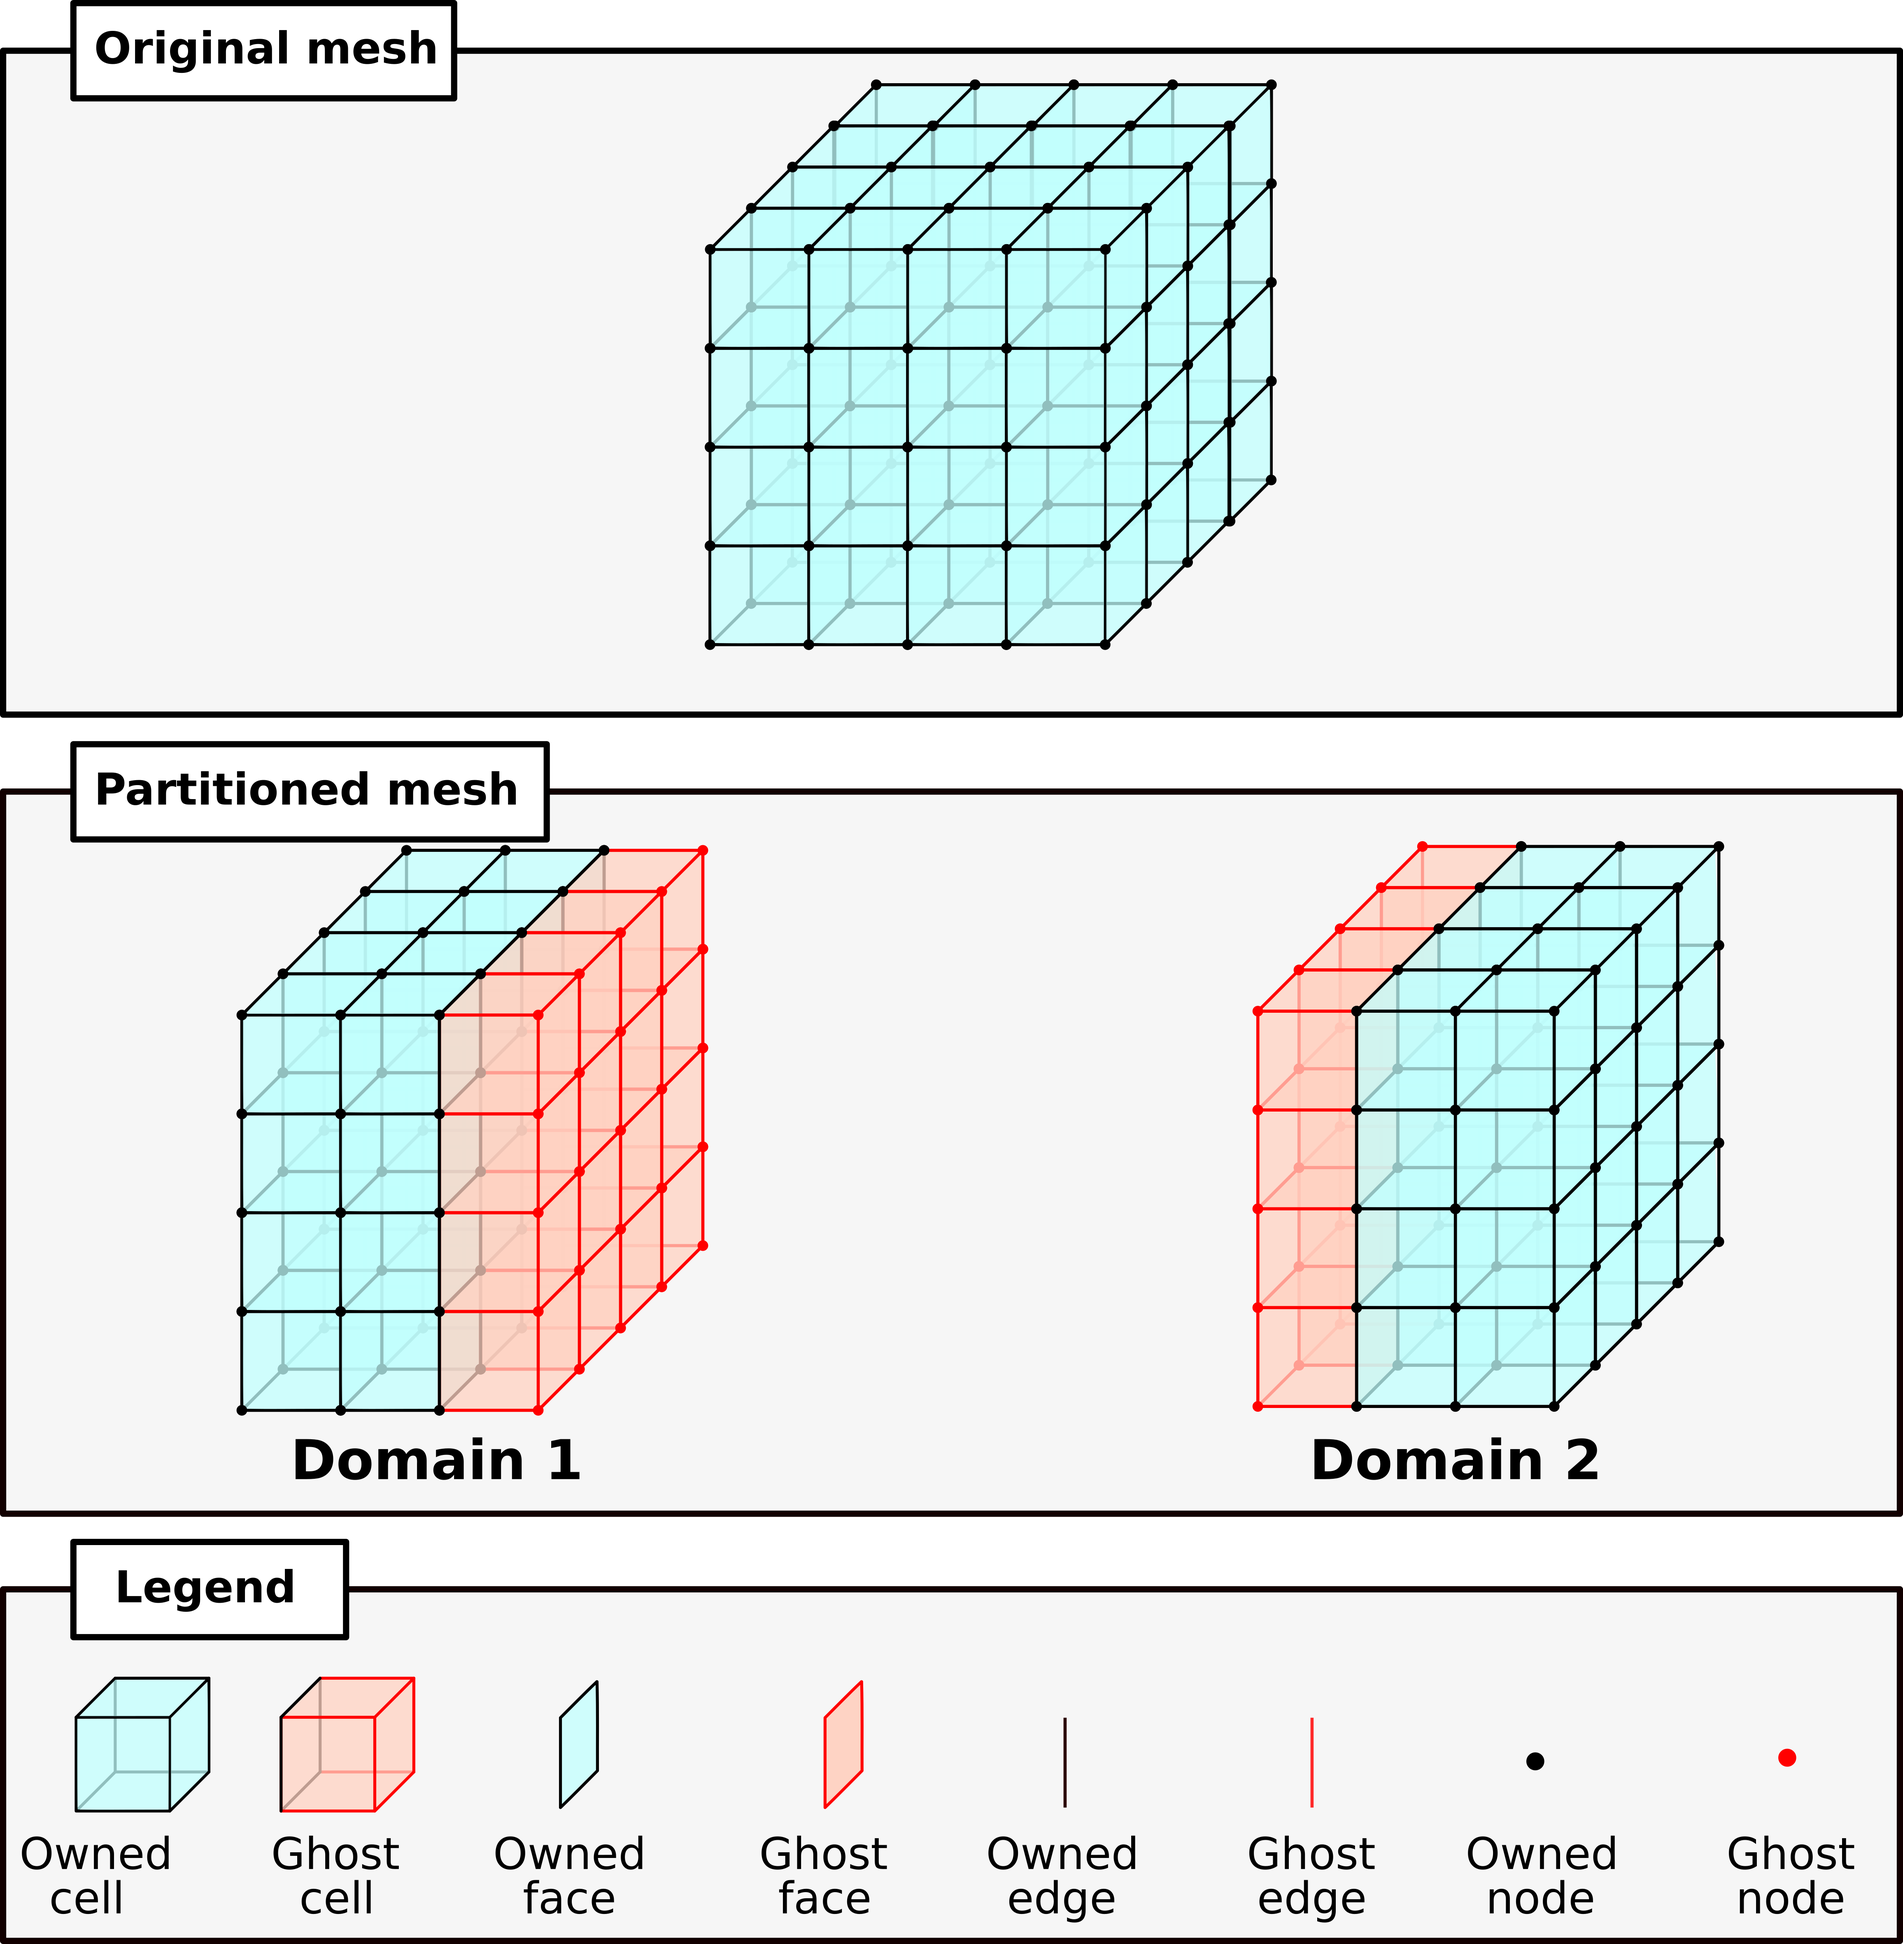
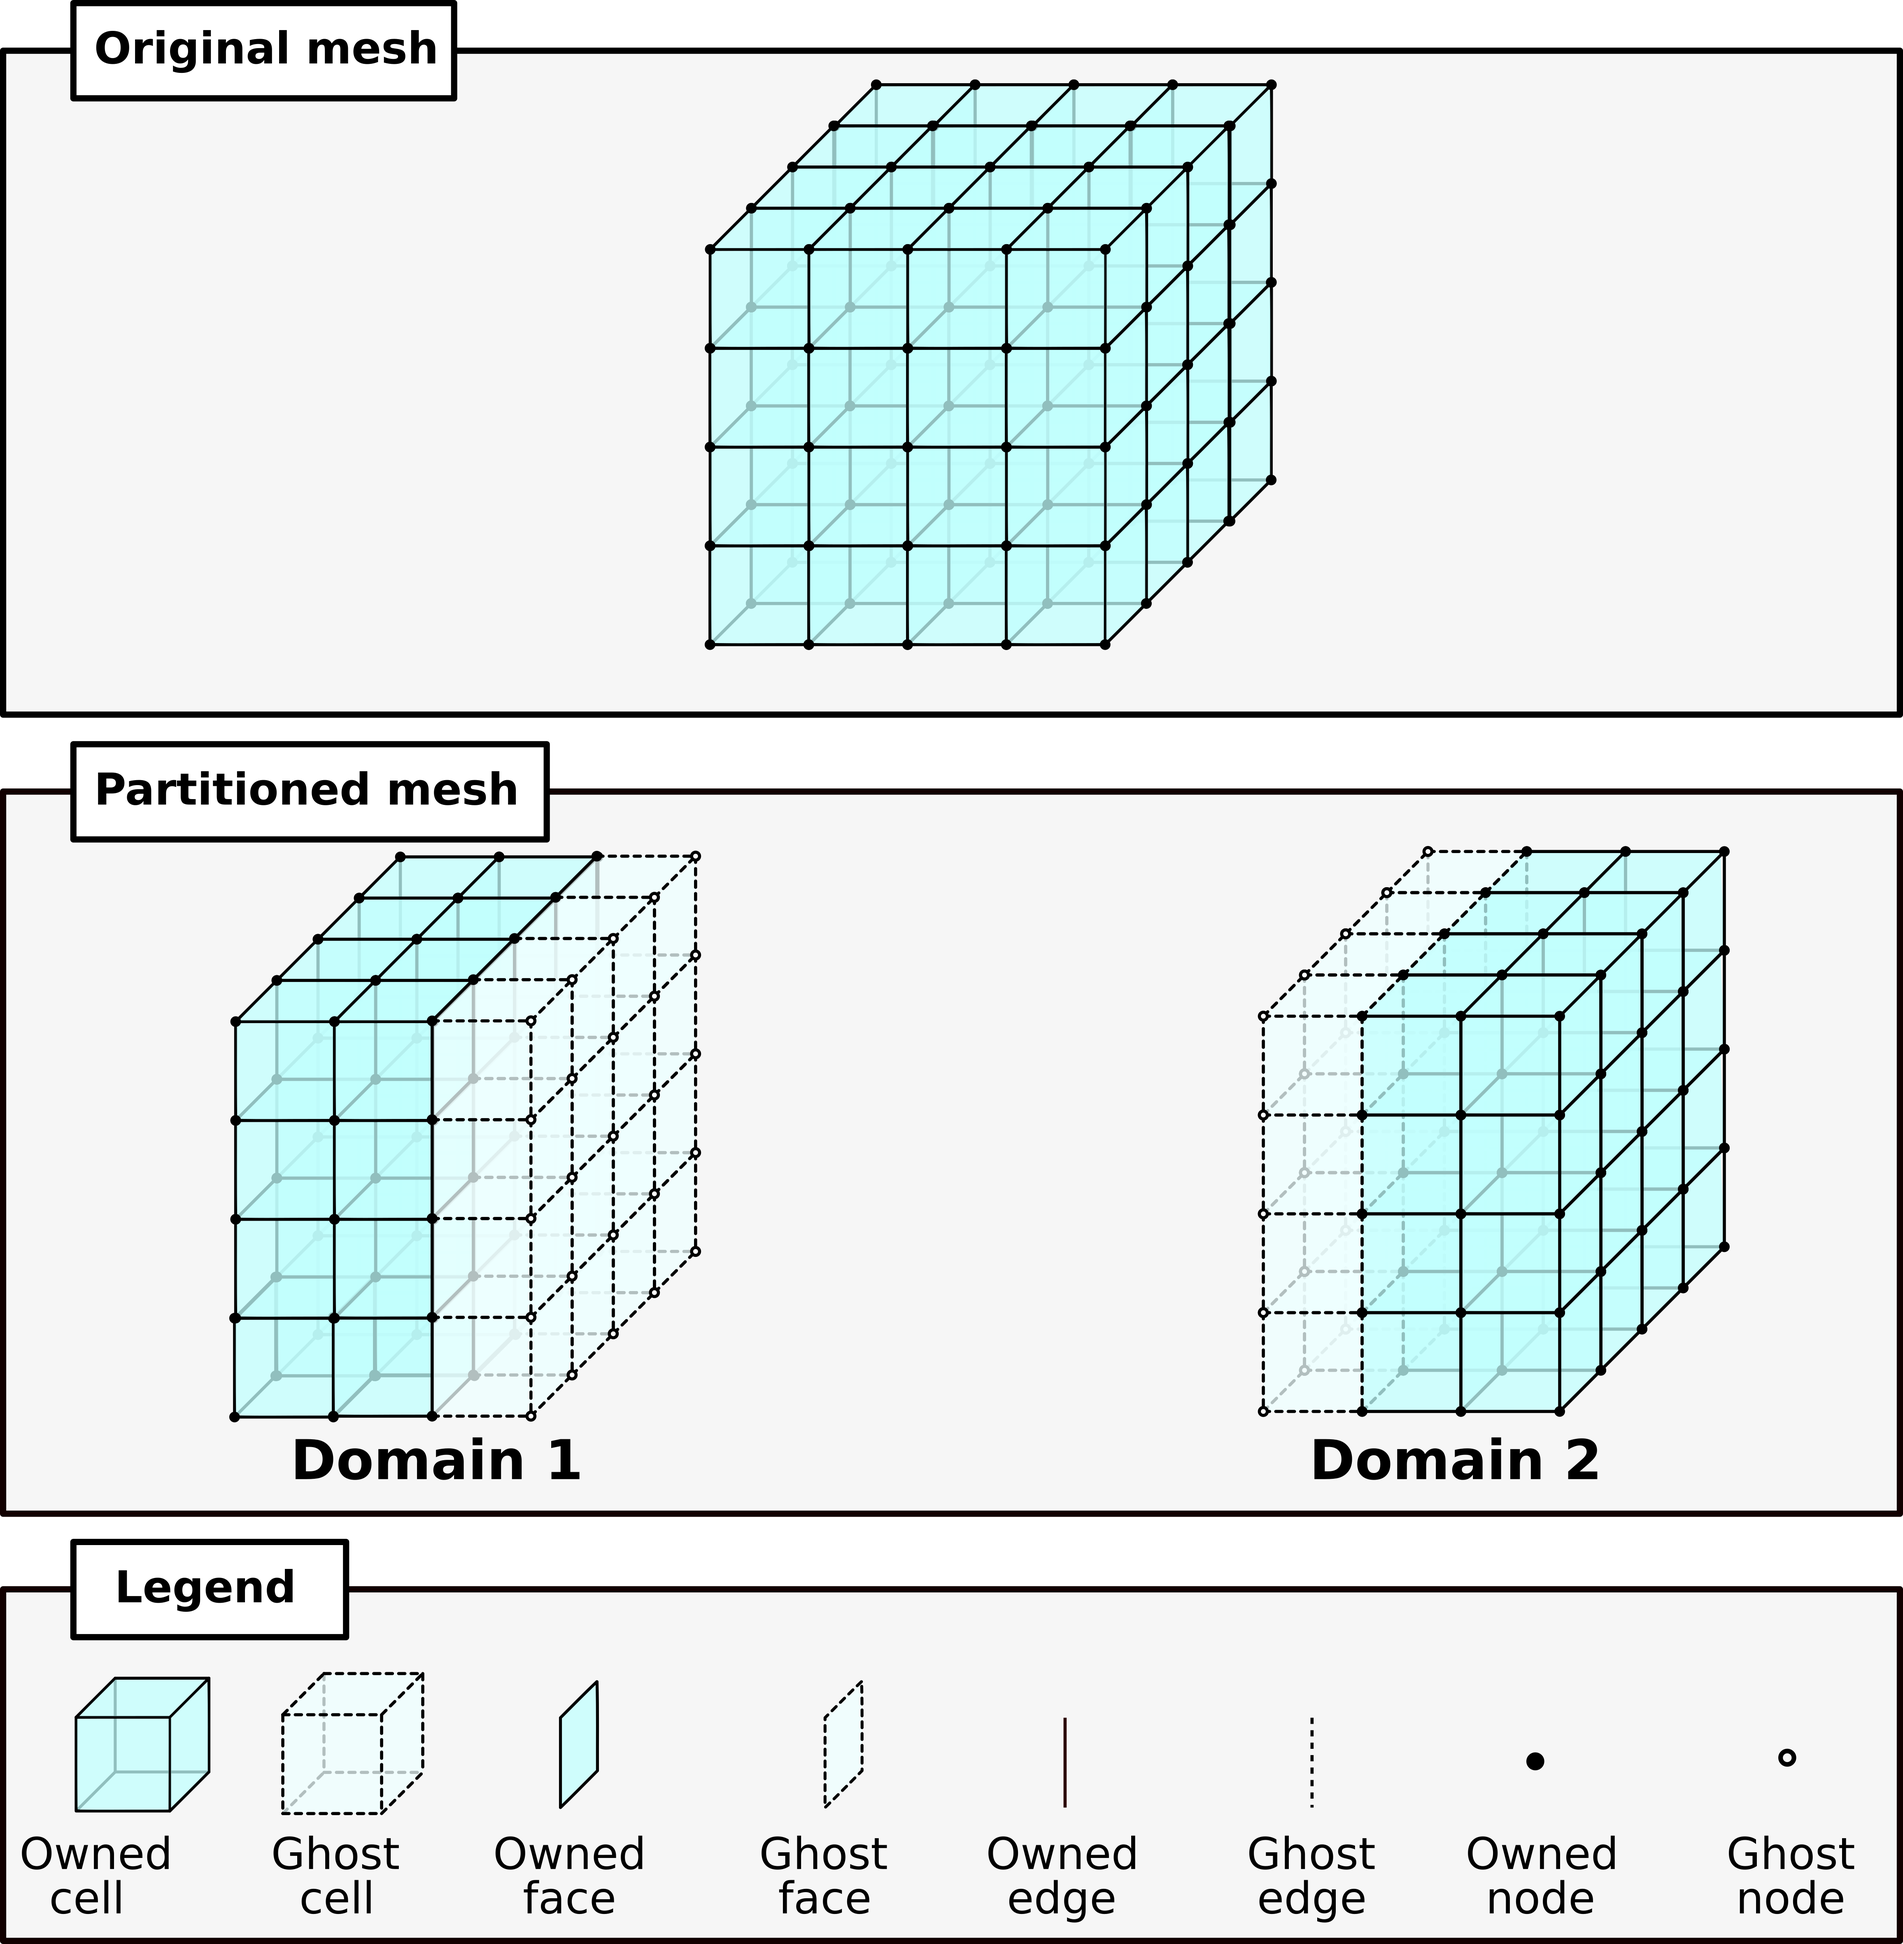
Move stuffs into the dev doc. Update some images

diff --git a/src/coreComponents/mesh/docs/MeshInfrastructure.rst b/src/coreComponents/mesh/docs/MeshInfrastructure.rst
@@ -1,0 +1,126 @@
+===================
+Mesh Infrastructure
+===================
+
+GEOSX uses a hierarchical class structure to store the mesh.
+To illustrate it, we show a model with two regions (Top and Bottom) (:numref:`modelFig`).
+
+.. _modelFig:
+.. figure:: ../../../coreComponents/mesh/docs/model.png
+   :align: center
+   :width: 500
+   :figclass: align-center
+
+   Example of a model with two regions
+
+This model can be meshed with different types of polyhedra.
+Here, the model is meshed with pyramids,
+tetrahedra, hexahedra and wedges (:numref:`meshPolyFig`).
+
+.. _meshPolyFig:
+.. figure:: ../../../coreComponents/mesh/docs/mesh_multi.png
+   :align: center
+   :width: 500
+   :figclass: align-center
+
+   Model meshed with different cell types
+
+
+This mesh can then be split across different computational nodes.
+The resulting split consists of several ``DomainPartition`` of the mesh (here, two).
+These partitions are not necessarily identical to the two regions (Top and Bottom) (:numref:`domainPartFig`).
+
+.. _domainPartFig:
+.. figure:: ../../../coreComponents/mesh/docs/mesh_domain.png
+   :align: center
+   :width: 500
+   :figclass: align-center
+
+   Mesh partioned in two ``DomainPartition``
+
+Each ``DomainPartition`` is handled by the ``DomainPartition`` class in GEOSX.
+Each MPI process has its own instance of a ``DomainPartition``.
+
+A ``DomainPartition`` can contain several ``MeshBody``.
+A ``MeshBody`` is a partition of the mesh assigned to a specific set of physical laws.
+For instance, we could imagine a ``MeshBody`` where we only want to solve for flow 
+and not for elasticity, while in another area, we would have a ``MeshBody`` where both solvers are used.
+A ``MeshBody`` can contain several ``MeshLevel``.
+``MeshLevel`` objects are used to define levels in multi level computations.
+
+For clarity here, we assume that there is only one ``MeshBody`` and one ``MeshLevel``.
+
+A ``MeshLevel`` contains several managers that handle the mesh data structure.
+
+- ``NodeManager`` handles the nodes,
+- ``EdgeManager`` handles the edges,
+- ``FaceManager`` handles the facets,
+- ``ElementRegionManager`` handles the different regions and the polyhedra that compose them.
+
+NodeManager
+===============
+
+The ``NodeManager`` contains information on all nodes (vertices)
+of the ``MeshLevel`` and of the
+``DomainPartition`` it belongs to.
+Its size is equal to the number of nodes in this ``DomainPartition``/``MeshLevel``.
+
+EdgeManager
+===============
+
+In GEOSX, an edge is a segment between two nodes.
+The ``EdgeManager`` contains information on all edges
+of the ``MeshLevel`` and of the ``DomainPartition`` it belongs to.
+Its size is equal to the number of edges in this ``DomainPartition``/``MeshLevel``.
+
+The following picture shows the edges of the ``DomainPartition 1`` in the mesh:
+
+.. figure:: ../../../coreComponents/mesh/docs/edges_domain1.png
+   :align: center
+   :width: 300
+   :figclass: align-center
+
+FaceManager
+===============
+
+In GEOSX, a face is the interface between two polyhedra. 
+The ``FaceManagers`` contains informations on all faces of the ``MeshLevel`` and of the
+``DomainPartitions`` it belongs to. 
+Its size is equal to the number of faces in this ``DomainPartition``/``MeshLevel``.
+
+ElementRegionManager
+========================
+
+The ``ElementRegionManager`` handles all polyhedral elements of the ``DomainPartition``/``MeshLevel`` it belongs to.
+An ``ElementRegion`` in GEOSX is thus a collection of polyhedral elements managed by an ``ElementRegionManager``. 
+In the example above, the ``ElementRegionManager`` of one ``DomainPartition``/``MeshLevel`` manages two ``ElementRegion`` instances: one corresponding to the Bottom region, and one corresponding to the Top region.
+
+The element geometry information is stored in the ``CellElementSubRegion``.
+An ``ElementRegion`` can contain several ``CellElementSubRegion``.
+There is one such ``CellElementSubRegion`` for each element type.
+In our example, there are four distinct elements types (hexahedra, tetrahedra, wedges and pyramids).
+As a consequence, our ``ElementRegion`` will contain four different ``CellElementSubRegion`` instances:
+one for all hexahedra, one for all tetrahedra, one for all wedges, one for all pyramids.
+
+Ghosting structure
+==================
+
+To ease the communication between ``DomainPartition`` objects across MPI processes,
+GEOSX computes ghost elements.
+Ghost elements provide an overlap between two adjacents ``DomainPartition`` objects.
+From now on, we will distinguish between *owned* elements (that belong to the domain)
+and *ghost* elements (than belong to the neighboring domain).
+
+.. figure:: ../../../coreComponents/mesh/docs/split.png
+   :align: center
+   :width: 700
+   :figclass: align-center
+
+.. warning::
+  Asking for the size of the ``NodeManager``, ``EdgeManager``, ``FaceManager`` or a ``CellElementSubRegion``
+  will return the number of owned elements plus the number of ghost elements.
+
+The complete mesh data structure is shown in the next picture.
+
+.. image:: ../../../coreComponents/mesh/docs/diag.png
+

diff --git a/src/coreComponents/mesh/docs/Mesh.rst b/src/coreComponents/mesh/docs/Mesh.rst
@@ -12,111 +12,6 @@ This latter options allows one to work with more complex geometries,
 such as unstructured meshes comprised of a variety of element types (polyhedral elements).
 
 ************************
-Mesh Data Structure
-************************
-
-GEOSX uses a hierarchical class structure to store the mesh.
-To illustrate it, we show a model with two regions (Top and Bottom).
-
-.. image:: ../../../coreComponents/mesh/docs/model.png
-
-This model can be meshed with different types of polyhedra.
-Here, the model is meshed with pyramids,
-tetrahedra, hexahedra and wedges.
-
-.. image:: ../../../coreComponents/mesh/docs/mesh_multi.png
-
-This mesh can then be split across different computational nodes.
-The resulting split consists of several ``DomainPartition`` of the mesh (here, two).
-These partitions are not necessarily identical to the two regions (Top and Bottom).
-
-.. image:: ../../../coreComponents/mesh/docs/mesh_domain.png
-
-Each ``DomainPartition`` is handled by the ``DomainPartition`` class in GEOSX.
-Each MPI process has its own instance of a ``DomainPartition``.
-
-A ``DomainPartition`` can contain several ``MeshBody``.
-
-A ``MeshBody`` is a partition of the mesh assigned to a specific set of physical laws.
-For instance, we could imagine a ``MeshBody`` where we only want to solve for flow 
-and not for elasticity, while in another area, we would have a ``MeshBody`` where both solvers are used.
-
-A ``MeshBody`` can contain several ``MeshLevel``.
-``MeshLevel`` objects are used to define levels in multi level computations.
-
-
-For clarity here, we assume that there is only one ``MeshBody`` and one ``MeshLevel``.
-
-A ``MeshLevel`` contains several managers that handle the mesh data structure.
-
-- ``NodeManager`` handles the nodes,
-- ``EdgeManager`` handles the edges,
-- ``FaceManager`` handles the facets,
-- ``ElementRegionManager`` handles the different regions and the polyhedra that compose them.
-
-NodeManager
-===============
-
-The ``NodeManager`` contains information on all nodes (vertices)
-of the ``MeshLevel`` and of the
-``DomainPartition`` it belongs to.
-Its size is equal to the number of nodes in this ``DomainPartition``/``MeshLevel``.
-
-EdgeManager
-===============
-
-In GEOSX, an edge is a segment between two nodes.
-The ``EdgeManager`` contains information on all edges
-of the ``MeshLevel`` and of the ``DomainPartition`` it belongs to.
-Its size is equal to the number of edges in this ``DomainPartition``/``MeshLevel``.
-
-The following picture shows the edges of the ``DomainPartition 1`` in the mesh:
-
-.. image:: ../../../coreComponents/mesh/docs/edges_domain1.png
-
-FaceManager
-===============
-
-In GEOSX, a face is the interface between two polyhedra. 
-The ``FaceManagers`` contains informations on all faces of the ``MeshLevel`` and of the
-``DomainPartitions`` it belongs to. 
-Its size is equal to the number of faces in this ``DomainPartition``/``MeshLevel``.
-
-ElementRegionManager
-========================
-
-The ``ElementRegionManager`` handles all polyhedral elements of the ``DomainPartition``/``MeshLevel`` it belongs to.
-An ``ElementRegion`` in GEOSX is thus a collection of polyhedral elements managed by an ``ElementRegionManager``. 
-In the example above, the ``ElementRegionManager`` of one ``DomainPartition``/``MeshLevel`` manages two ``ElementRegion`` instances: one corresponding to the Bottom region, and one corresponding to the Top region.
-
-The element geometry information is stored in the ``CellElementSubRegion``.
-An ``ElementRegion`` can contain several ``CellElementSubRegion``.
-There is one such ``CellElementSubRegion`` for each element type.
-In our example, there are four distinct elements types (hexahedra, tetrahedra, wedges and pyramids).
-As a consequence, our ``ElementRegion`` will contain four different ``CellElementSubRegion`` instances:
-one for all hexahedra, one for all tetrahedra, one for all wedges, one for all pyramids.
-
-Ghosting structure
-==================
-
-To ease the communication between ``DomainPartition`` objects across MPI processes,
-GEOSX computes ghost elements.
-Ghost elements provide an overlap between two adjacents ``DomainPartition`` objects.
-From now on, we will distinguish between *owned* elements (that belong to the domain)
-and *ghost* elements (than belong to the neighboring domain).
-
-.. image:: ../../../coreComponents/mesh/docs/split.png
-
-.. warning::
-  Asking for the size of the ``NodeManager``, ``EdgeManager``, ``FaceManager`` or a ``CellElementSubRegion``
-  will return the number of owned elements plus the number of ghost elements.
-
-The complete mesh data structure is shown in the next picture.
-
-.. image:: ../../../coreComponents/mesh/docs/diag.png
-
-
-************************
 Internal Mesh Generation
 ************************
 

diff --git a/src/docs/sphinx/developerGuide/Index.rst b/src/docs/sphinx/developerGuide/Index.rst
@@ -27,13 +27,13 @@ Welcome to the GEOSX developer guide.
    
    /coreComponents/linearAlgebra/docs/DofManager.rst
 
+   /coreComponents/mesh/docs/MeshInfrastructure.rst
 
 
 Overview of the code structure
 Managed Groups
 Arrays
 Data Repository
-Mesh Infrastructure
 Physics Solvers
 Constitutive Models
 Linear Algebra Interface
